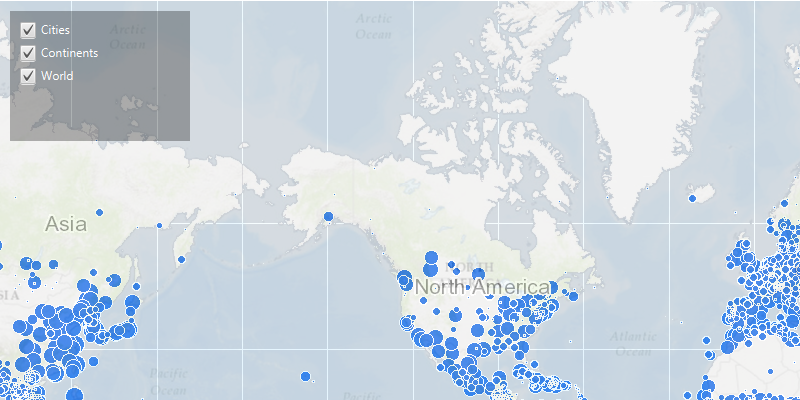
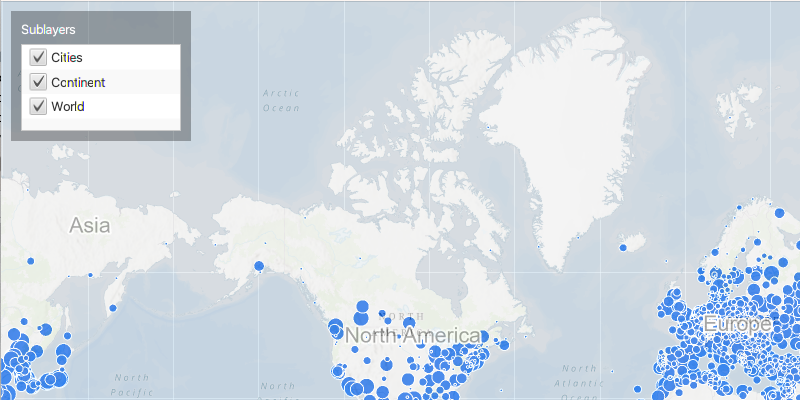
MapImageLayerSublayerVisibilitySample: use ListView instead of discrete Checkboxes (#796)
* MapImageLayerSublayerVisibilitySample: use a ListView instead of 3 discrete Checkboxes

* MapImageLayerSublayerVisibilitySample: update arcgisVersion to 200.2.0-3924

* MapImageLayerSublayerVisibilitySample: update screen shot

* MapImageLayerSublayerVisibilitySample: reduce size of screen shot

* MapImageLayerSublayerVisibilitySample: add inner class ArcGISSublayerStringConverter

* MapImageLayerSublayerVisibilitySample: change size of screenshot file

diff --git a/image_layers/map-image-layer-sublayer-visibility/src/main/java/com/esri/samples/map_image_layer_sublayer_visibility/MapImageLayerSublayerVisibilitySample.java b/image_layers/map-image-layer-sublayer-visibility/src/main/java/com/esri/samples/map_image_layer_sublayer_visibility/MapImageLayerSublayerVisibilitySample.java
@@ -17,11 +17,14 @@
 package com.esri.samples.map_image_layer_sublayer_visibility;
 
 import javafx.application.Application;
+import javafx.beans.property.SimpleBooleanProperty;
 import javafx.geometry.Insets;
 import javafx.geometry.Pos;
 import javafx.scene.Scene;
 import javafx.scene.control.Alert;
-import javafx.scene.control.CheckBox;
+import javafx.scene.control.Label;
+import javafx.scene.control.ListView;
+import javafx.scene.control.cell.CheckBoxListCell;
 import javafx.scene.layout.Background;
 import javafx.scene.layout.BackgroundFill;
 import javafx.scene.layout.CornerRadii;
@@ -29,10 +32,11 @@ import javafx.scene.layout.StackPane;
 import javafx.scene.layout.VBox;
 import javafx.scene.paint.Paint;
 import javafx.stage.Stage;
+import javafx.util.StringConverter;
 
 import com.esri.arcgisruntime.ArcGISRuntimeEnvironment;
 import com.esri.arcgisruntime.layers.ArcGISMapImageLayer;
-import com.esri.arcgisruntime.layers.SublayerList;
+import com.esri.arcgisruntime.layers.ArcGISSublayer;
 import com.esri.arcgisruntime.loadable.LoadStatus;
 import com.esri.arcgisruntime.mapping.ArcGISMap;
 import com.esri.arcgisruntime.mapping.BasemapStyle;
@@ -71,13 +75,18 @@ public class MapImageLayerSublayerVisibilitySample extends Application {
       controlsVBox.setMaxSize(180, 130);
       controlsVBox.getStyleClass().add("panel-region");
 
-      // create checkboxes for each sublayer
-      CheckBox citiesBox = new CheckBox("Cities");
-      CheckBox continentsBox = new CheckBox("Continents");
-      CheckBox worldBox = new CheckBox("World");
-
-      controlsVBox.getChildren().addAll(citiesBox, continentsBox, worldBox);
-      controlsVBox.getChildren().forEach(c -> ((CheckBox) c).setSelected(true));
+      // create a ListView containing a CheckBox for the visibility of each sublayer
+      var sublayersLabel = new Label("Sublayers");
+      ListView<ArcGISSublayer> sublayersList = new ListView<>();
+      sublayersList.setCellFactory(CheckBoxListCell.forListView(
+          sublayer -> {
+            // set visibility of sublayer when checkbox is clicked
+            var visibleProperty = new SimpleBooleanProperty(sublayer.isVisible());
+            visibleProperty.addListener((observable, oldValue, newValue) -> sublayer.setVisible(newValue));
+            return visibleProperty;
+          },
+          new ArcGISSublayerStringConverter()));
+      controlsVBox.getChildren().addAll(sublayersLabel, sublayersList);
 
       // create a map with the topographic basemap style
       ArcGISMap map = new ArcGISMap(BasemapStyle.ARCGIS_TOPOGRAPHIC);
@@ -98,19 +107,13 @@ public class MapImageLayerSublayerVisibilitySample extends Application {
       // set the image layer's opacity so that the basemap is visible behind it
       imageLayer.setOpacity(0.7f);
 
-      // show alert if layer fails to load
+      // set a done-loading listener on the layer
       imageLayer.addDoneLoadingListener(() -> {
         if (imageLayer.getLoadStatus() == LoadStatus.LOADED) {
-
-          // get the layers from the ArcGISMap image layer
-          SublayerList layers = imageLayer.getSublayers();
-
-          // handle sub layer selection
-          citiesBox.selectedProperty().addListener(e -> layers.get(0).setVisible(citiesBox.isSelected()));
-          continentsBox.selectedProperty().addListener(e -> layers.get(1).setVisible(continentsBox.isSelected()));
-          worldBox.selectedProperty().addListener(e -> layers.get(2).setVisible(worldBox.isSelected()));
-
+          // set the layer's sublayers on the ListView
+          sublayersList.setItems(imageLayer.getSublayers());
         } else {
+          // show alert if layer fails to load
           new Alert(Alert.AlertType.ERROR, "Error loading Image Layer.").show();
         }
       });
@@ -143,5 +146,18 @@ public class MapImageLayerSublayerVisibilitySample extends Application {
   public static void main(String[] args) {
 
     Application.launch(args);
+  }
+
+  /**
+   * A StringConverter for displaying ArcGISSublayers. Simply displays the ArcGISSublayer's name.
+   */
+  private static class ArcGISSublayerStringConverter extends StringConverter<ArcGISSublayer> {
+    @Override public String toString(ArcGISSublayer sublayer) {
+      return sublayer.getName();
+    }
+
+    @Override public ArcGISSublayer fromString(String string) {
+      return null;
+    }
   }
 }
